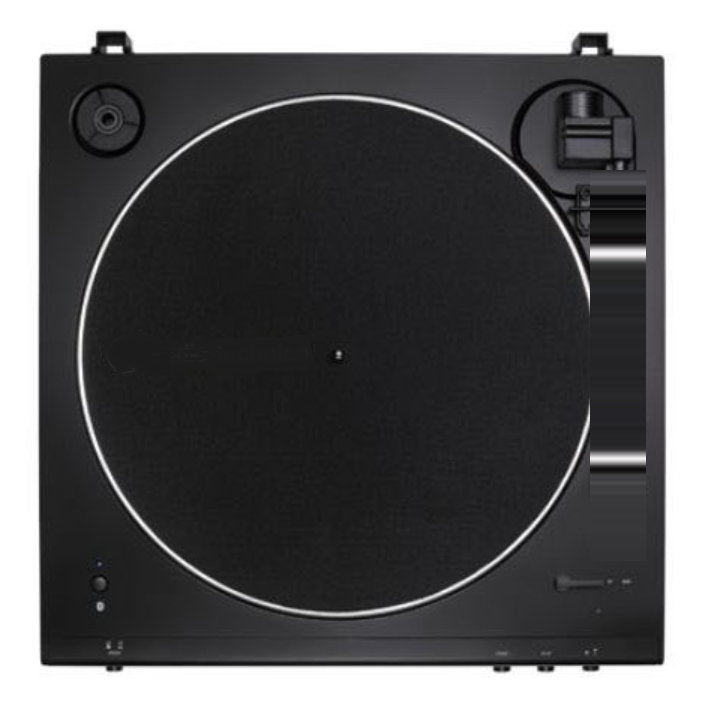
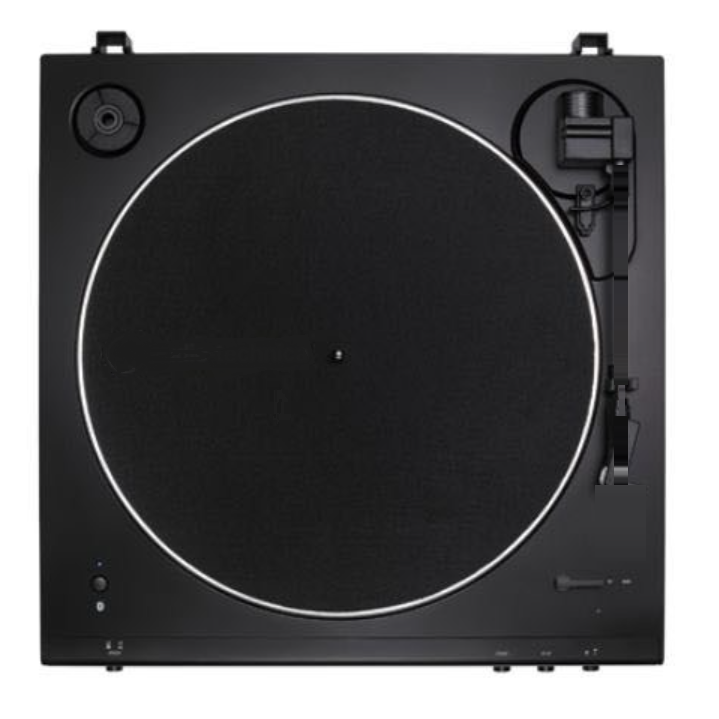
fix: 톤암 부품 정밀 분리 및 피벗 회전축/각도(-15.5도) 보정, 턴테이블 베이스 인페인팅 수정

Changed region(s): [[0.7955, 0.2142, 0.9179, 0.6732]]

diff --git a/public/style.css b/public/style.css
@@ -260,31 +260,32 @@ body {
     z-index: 3;
 }
 
-/* 톤암 오버레이 레이어 (우측 상단 피벗 기준 회전) */
-.tonearm-overlay {
+/* 정밀 분리된 톤암 레이어 (피벗 회전 중심축 기준 회전) */
+.tonearm-wrapper-clean {
     position: absolute;
-    top: 0;
-    left: 0;
-    width: 100%;
-    height: 100%;
+    left: 78.58%;
+    top: 11.13%;
+    width: 12.52%;
+    height: 68.15%;
     pointer-events: none;
     z-index: 10;
-    /* 이미지 상의 피벗 중심점: X=81.8%, Y=16.7% */
-    transform-origin: 81.8% 16.7%;
+    /* 톤암 피벗 중심 회전축 (원본 톤암 베이스 내부 피벗 좌표) */
+    transform-origin: 62.22% 13.27%;
     transform: rotate(0deg);
-    transition: transform 1s cubic-bezier(0.25, 1, 0.5, 1);
+    transition: transform 1.1s cubic-bezier(0.34, 1.15, 0.64, 1);
+    filter: drop-shadow(-4px 8px 10px rgba(0, 0, 0, 0.6));
 }
 
-/* 재생 시 톤암이 LP판 위로 스윙 이동 (-18도 회전) */
-.tonearm-overlay.active {
-    transform: rotate(-18deg);
+/* 재생 시 톤암 바늘이 LP판 시작 그루브(외주) 위로 이동 (-15.5도 회전) */
+.tonearm-wrapper-clean.active {
+    transform: rotate(-15.5deg);
 }
 
-.tonearm-img {
+.tonearm-clean-img {
     width: 100%;
     height: 100%;
-    object-fit: cover;
-    filter: drop-shadow(-4px 8px 12px rgba(0, 0, 0, 0.6));
+    object-fit: contain;
+    display: block;
 }
 
 /* 턴테이블 전원 LED (좌측 하단 인디케이터) */

diff --git a/public/index.html b/public/index.html
@@ -48,9 +48,9 @@
                             <div class="vinyl-hole"></div>
                         </div>
 
-                        <!-- 턴테이블 톤암 레이어 (피벗 중심 회전 모션) -->
-                        <div class="tonearm-overlay" id="tonearm-assembly">
-                            <img src="tonearm.png" alt="Tonearm" class="tonearm-img">
+                        <!-- 톤암 레이어 (정밀 분리된 톤암 및 피벗 회전 모션) -->
+                        <div class="tonearm-wrapper-clean" id="tonearm-assembly">
+                            <img src="tonearm_clean.png" alt="Tonearm" class="tonearm-clean-img">
                         </div>
 
                         <!-- 턴테이블 전원 LED 인디케이터 -->
